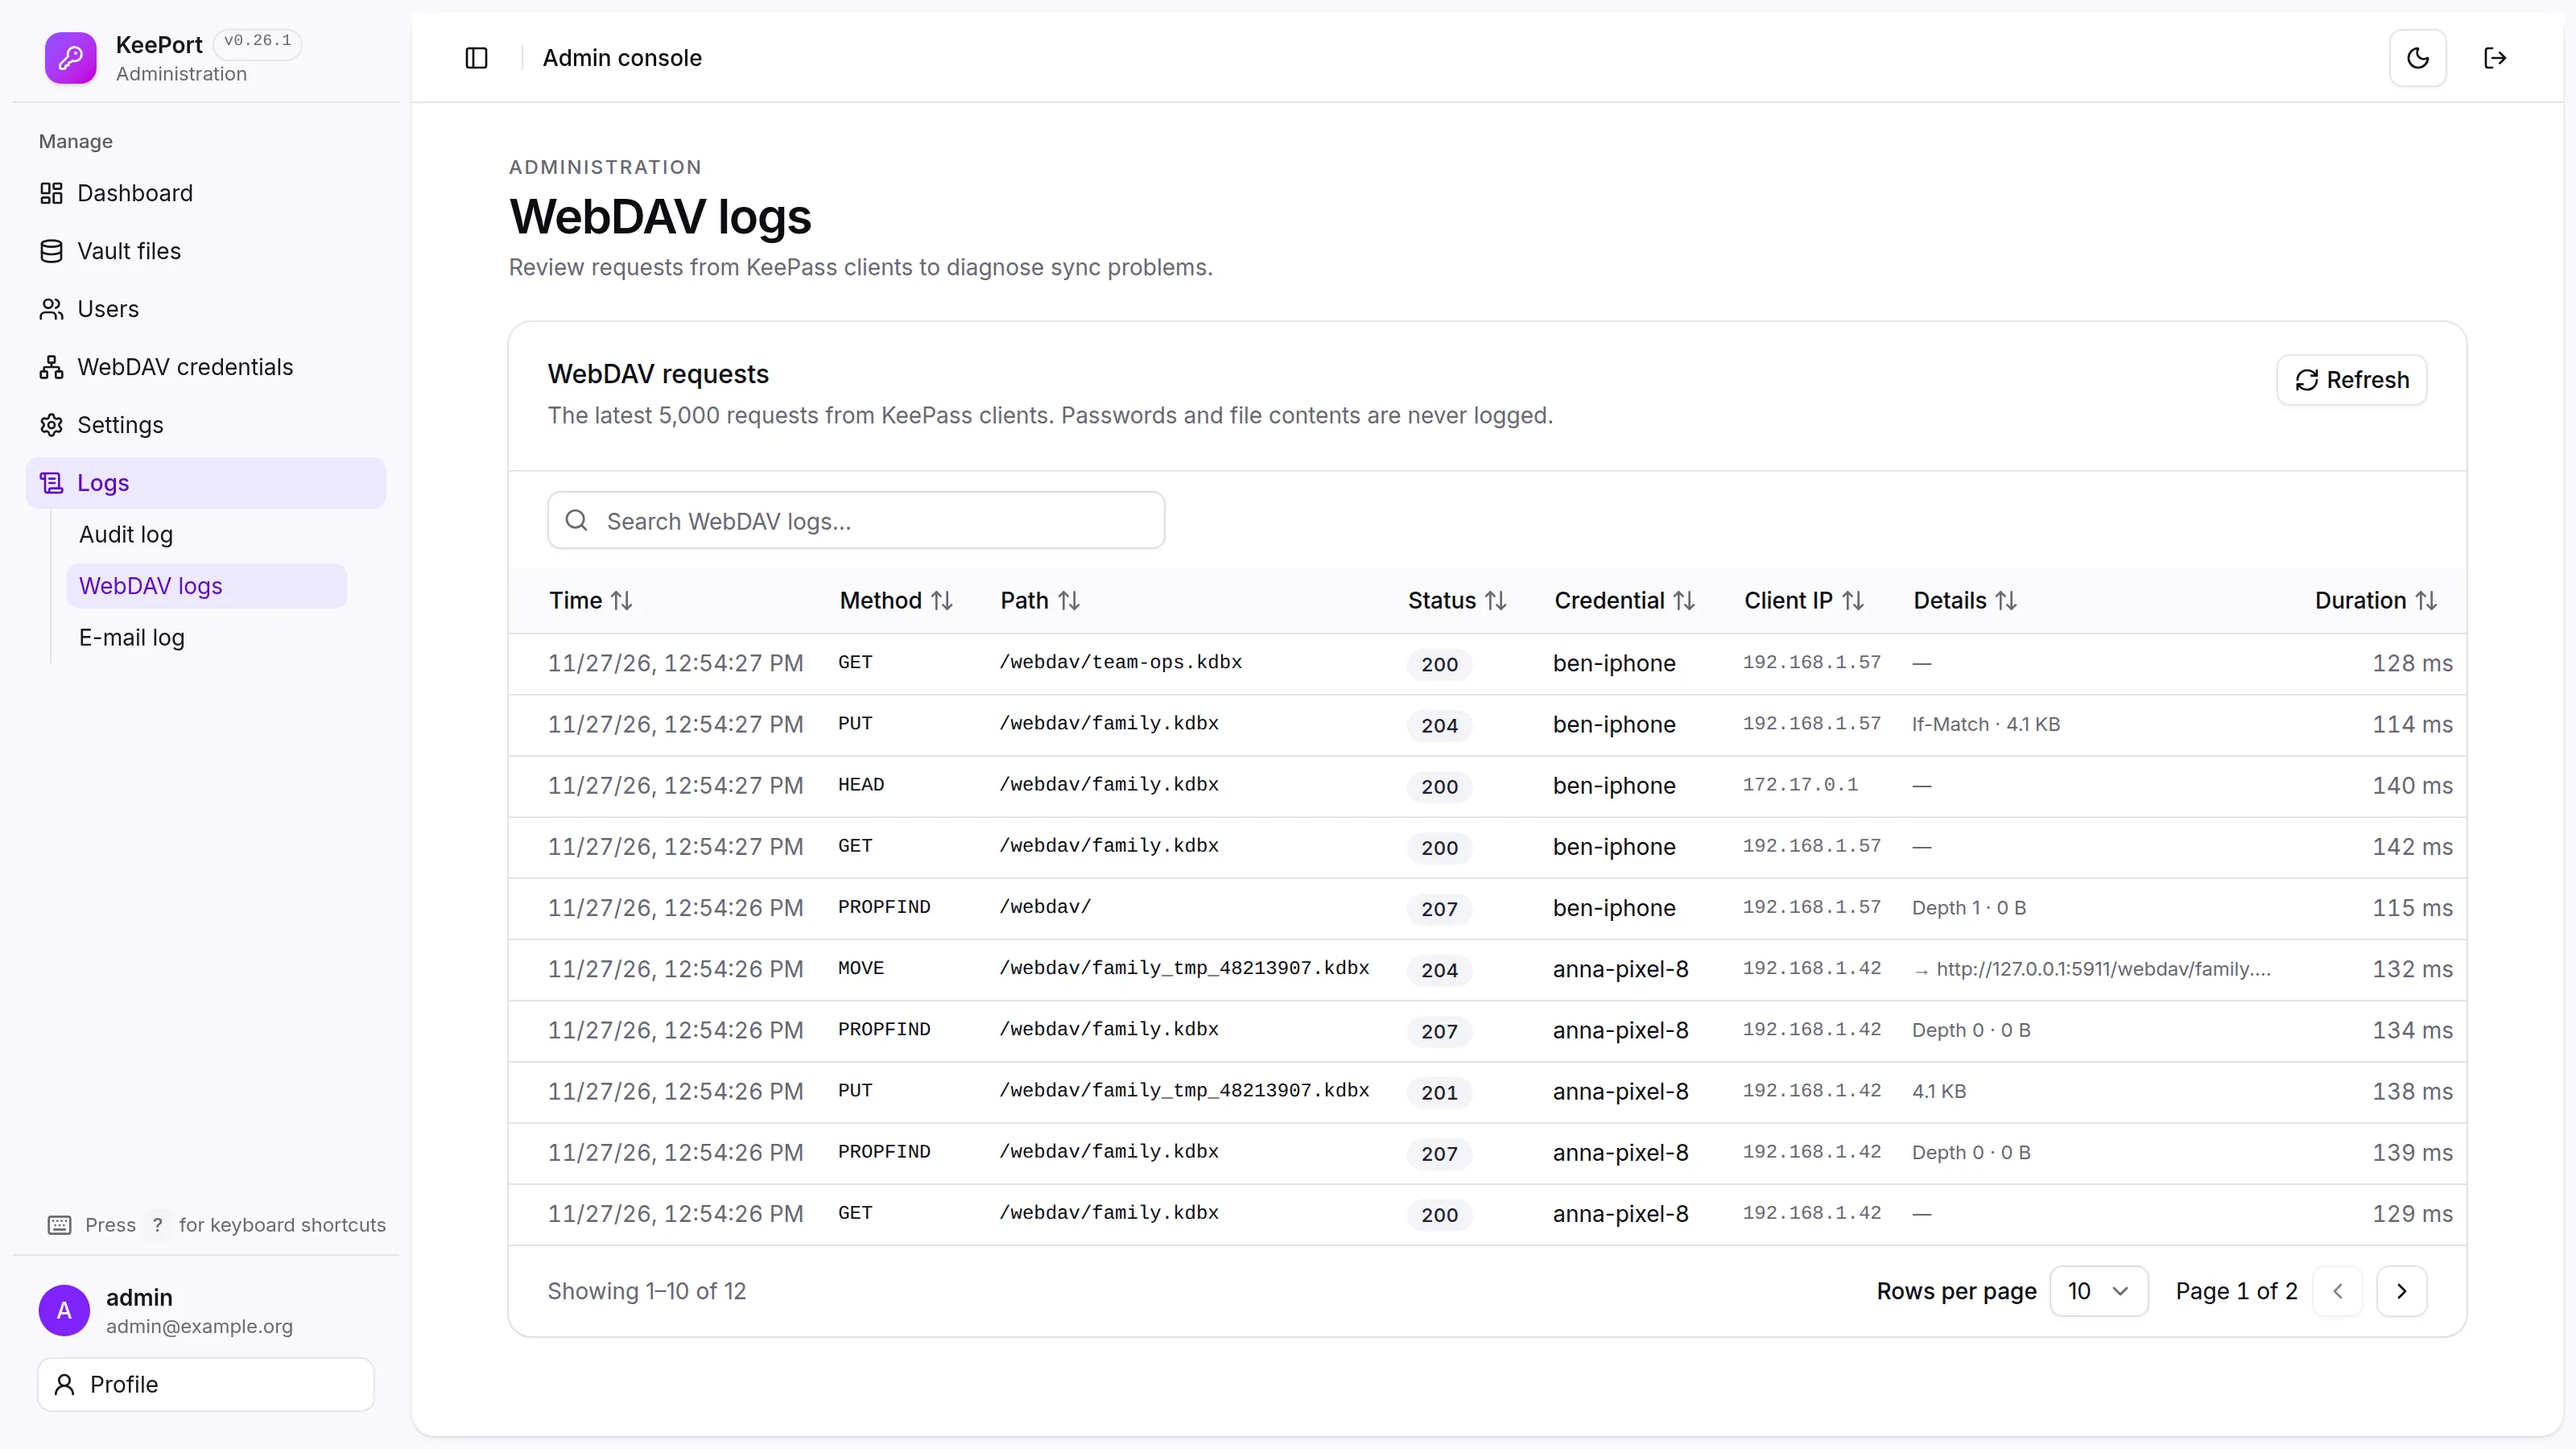
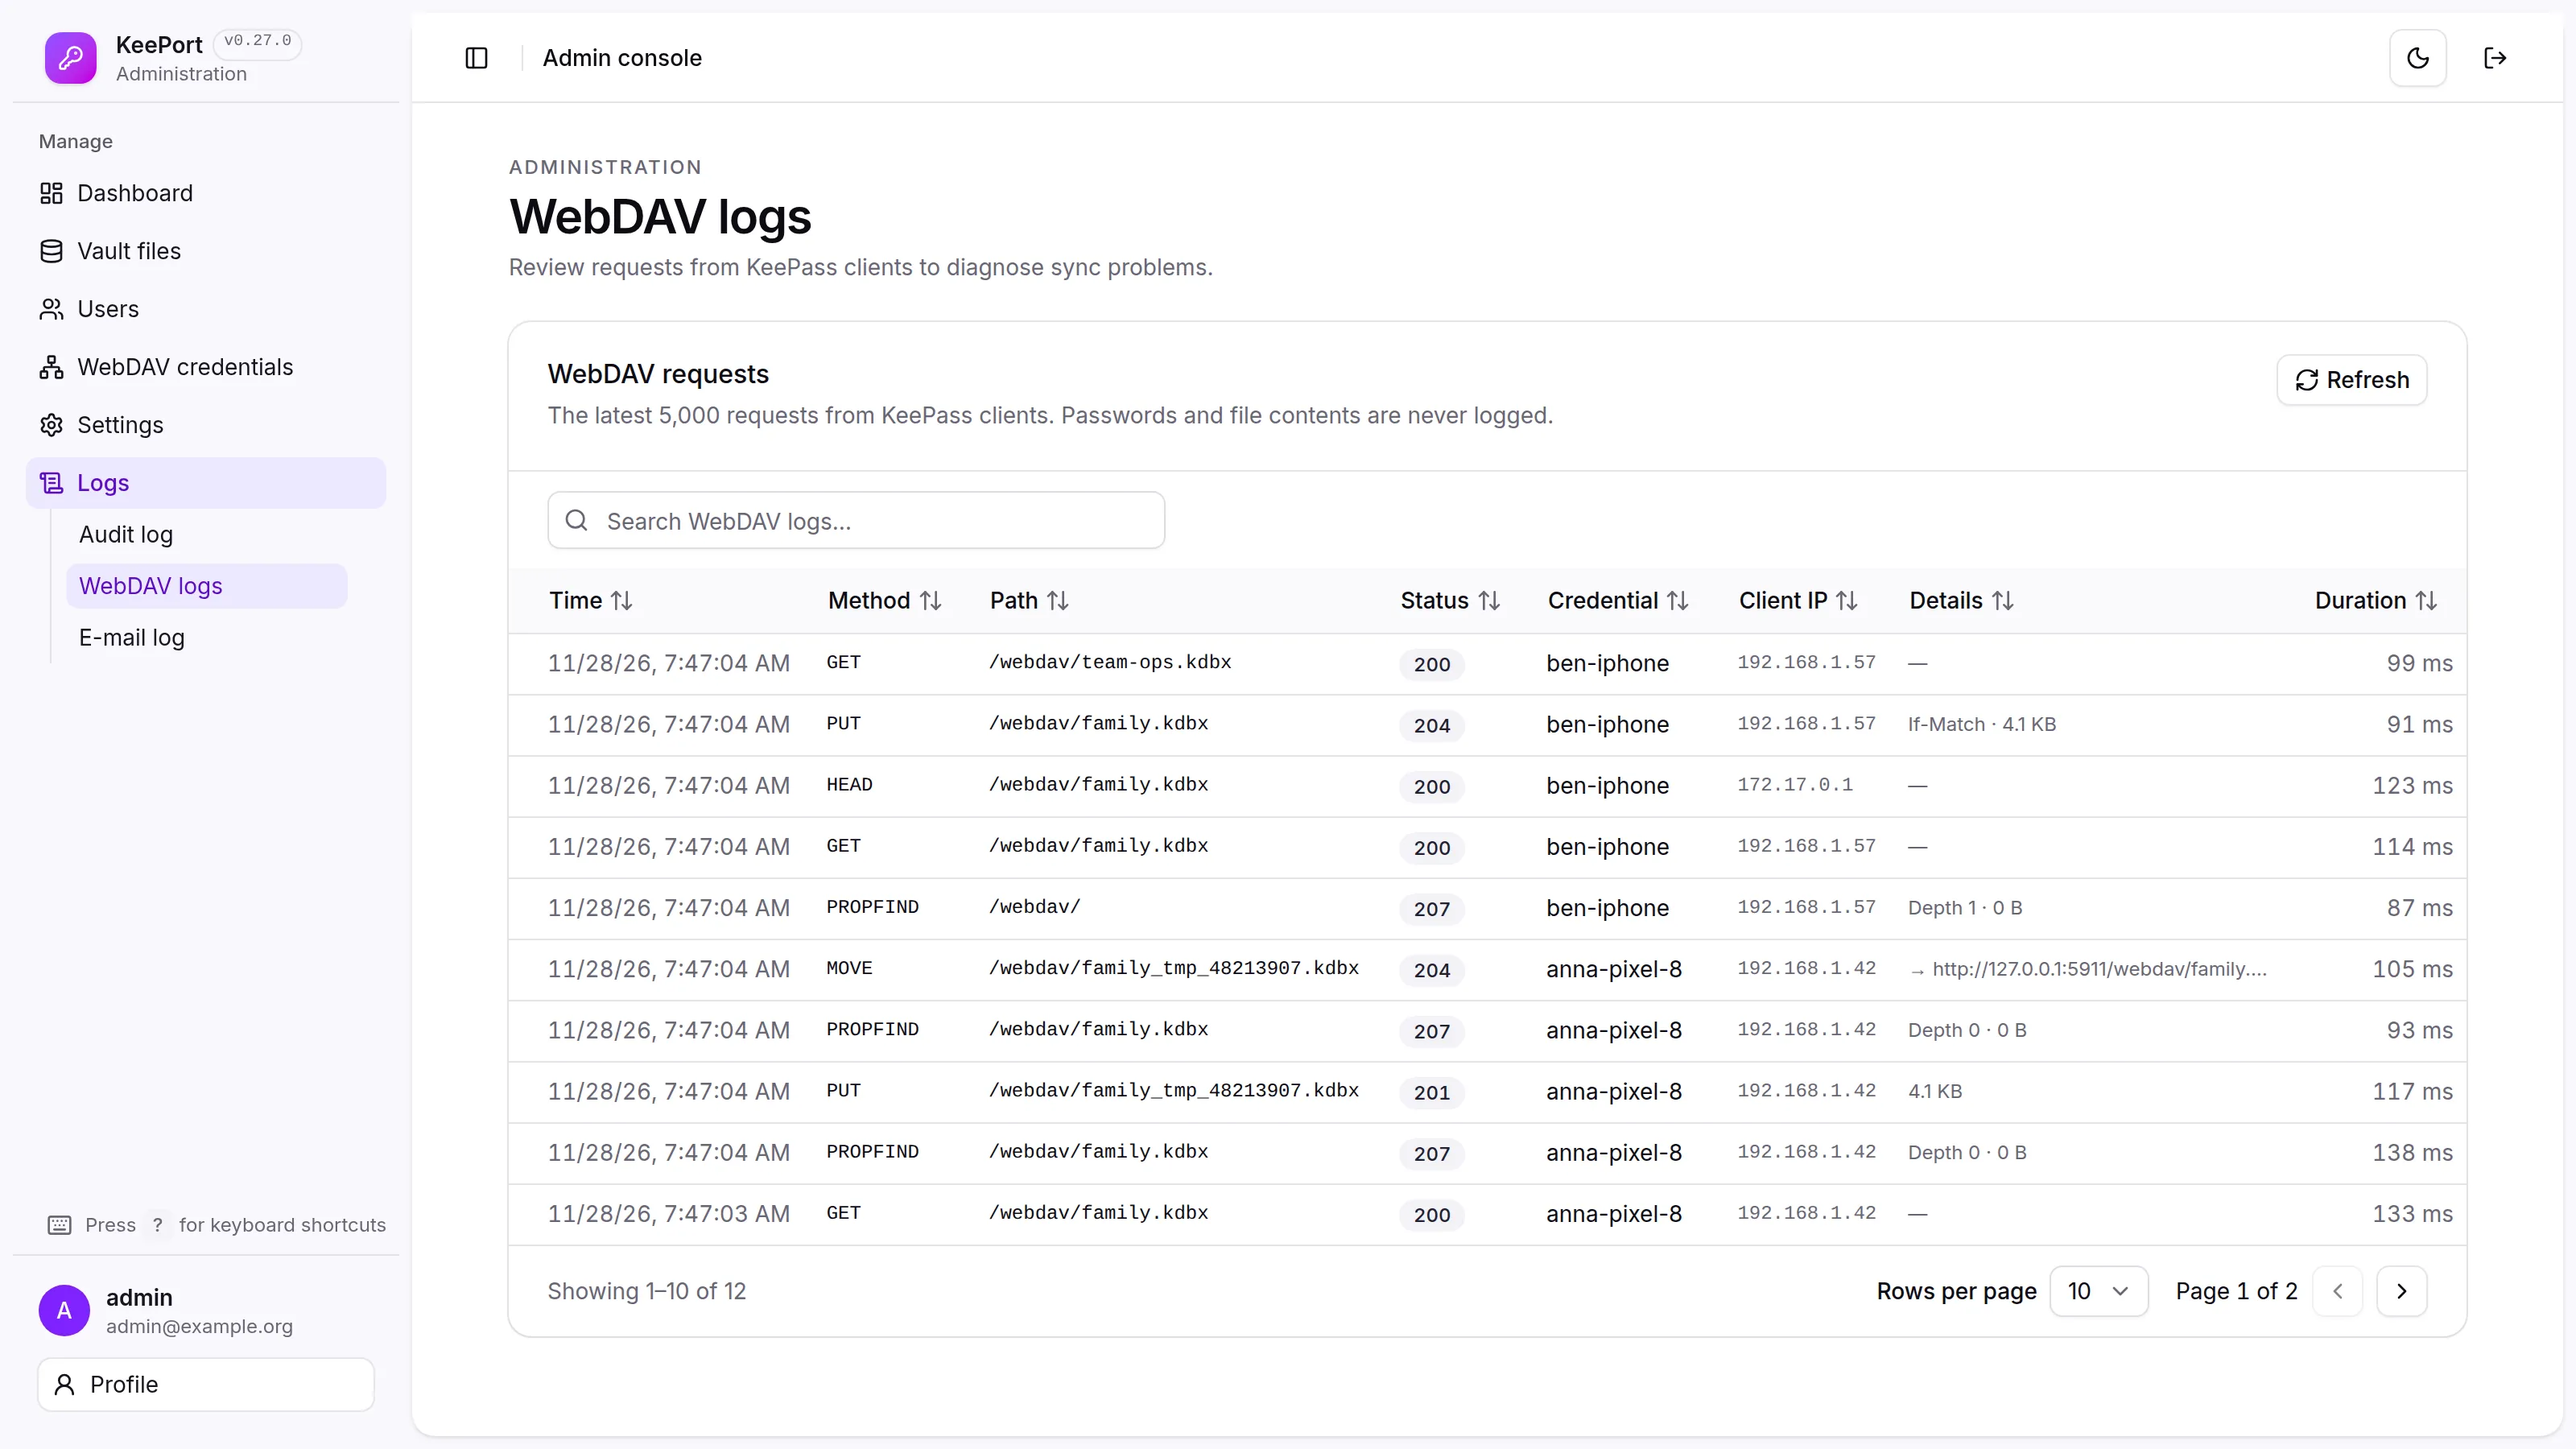
chore(release): 0.27.0

diff --git a/docs/DEPLOYMENT.md b/docs/DEPLOYMENT.md
@@ -21,7 +21,7 @@
 All paths use the same `docker-compose.yml` and end with the same [first steps in the admin console](#-first-steps-in-the-admin-console).
 
 > [!IMPORTANT]
-> Always install a **release** (for example `v0.26.1`), not the development branch. The latest version is listed on the [Releases page](https://github.com/madcoda9000/KeePort/releases). The examples below use `v0.26.1`.
+> Always install a **release** (for example `v0.27.0`), not the development branch. The latest version is listed on the [Releases page](https://github.com/madcoda9000/KeePort/releases). The examples below use `v0.27.0`.
 
 ## 🧩 How the pieces fit together
 
@@ -98,8 +98,8 @@ ssh your-user@192.168.1.20
 cd /volume1/docker
 
 # Download and unpack the release
-curl -L https://github.com/madcoda9000/KeePort/archive/refs/tags/v0.26.1.tar.gz | tar xz
-mv KeePort-0.26.1 keeport
+curl -L https://github.com/madcoda9000/KeePort/archive/refs/tags/v0.27.0.tar.gz | tar xz
+mv KeePort-0.27.0 keeport
 
 # Data folder outside the app folder, writable by the container user (UID 1000)
 sudo mkdir -p /volume1/docker/keeport-data
@@ -197,8 +197,8 @@ docker start keeport
 ssh admin@192.168.1.30
 cd /share/Container
 
-curl -L https://github.com/madcoda9000/KeePort/archive/refs/tags/v0.26.1.tar.gz | tar xz
-mv KeePort-0.26.1 keeport
+curl -L https://github.com/madcoda9000/KeePort/archive/refs/tags/v0.27.0.tar.gz | tar xz
+mv KeePort-0.27.0 keeport
 
 mkdir -p /share/Container/keeport-data
 chown -R 1000:1000 /share/Container/keeport-data
@@ -254,7 +254,7 @@ Add `Container/keeport-data` to a **Hybrid Backup Sync** job. For a fully consis
 For a home server or VPS with Docker Engine and the Compose v2 plugin.
 
 ```bash
-git clone --branch v0.26.1 https://github.com/madcoda9000/KeePort.git
+git clone --branch v0.27.0 https://github.com/madcoda9000/KeePort.git
 cd KeePort
 cp .env.example .env
 docker compose up -d --build
@@ -520,7 +520,7 @@ Read the [changelog](../CHANGELOG.md) and make a [backup](#-backup--restore) fir
 ```bash
 cd /volume1/docker                         # QNAP: cd /share/Container
 sudo bash keeport/scripts/keeport-update.sh          # latest release
-sudo bash keeport/scripts/keeport-update.sh v0.26.1   # or a specific one
+sudo bash keeport/scripts/keeport-update.sh v0.27.0   # or a specific one
 ```
 
 On QNAP, prefix the command with `BASE_DIR=/share/Container`. The script:
@@ -539,8 +539,8 @@ It never deletes anything — it prints the cleanup commands at the end. Set `YE
 ```bash
 cd /volume1/docker                # QNAP: cd /share/Container
 mv keeport keeport-old
-curl -L https://github.com/madcoda9000/KeePort/archive/refs/tags/v0.26.1.tar.gz | tar xz
-mv KeePort-0.26.1 keeport
+curl -L https://github.com/madcoda9000/KeePort/archive/refs/tags/v0.27.0.tar.gz | tar xz
+mv KeePort-0.27.0 keeport
 cp keeport-old/.env keeport/
 cd keeport
 sudo docker compose up -d --build # QNAP: without sudo
@@ -554,7 +554,7 @@ Delete `keeport-old` once everything works. If you installed via Container Manag
 ```bash
 cd KeePort
 git fetch --tags
-git checkout v0.26.1
+git checkout v0.27.0
 docker compose up -d --build
 ```
 

diff --git a/README.md b/README.md
@@ -23,7 +23,7 @@
 </div>
 
 > [!NOTE]
-> KeePort is in **beta** (`v0.26.1`). Keep regular backups of your `.kdbx` files and of the `/data` volume.
+> KeePort is in **beta** (`v0.27.0`). Keep regular backups of your `.kdbx` files and of the `/data` volume.
 >
 > The **[user manual](https://github.com/madcoda9000/KeePort/wiki)** in the wiki explains every page of the admin console and the web vault step by step.
 
@@ -144,7 +144,7 @@ KeePass files are great: open format, strong encryption, dozens of apps. Keeping
 
 ```bash
 # Check out the latest release (not the development branch)
-git clone --branch v0.26.1 https://github.com/madcoda9000/KeePort.git
+git clone --branch v0.27.0 https://github.com/madcoda9000/KeePort.git
 cd KeePort
 
 cp .env.example .env
@@ -175,7 +175,7 @@ Open the admin console with **`https://`**. Your browser warns once about the se
 ```bash
 cd KeePort
 git fetch --tags
-git checkout v0.26.1          # the release you want, see the Releases page
+git checkout v0.27.0          # the release you want, see the Releases page
 docker compose up -d --build
 ```
 
